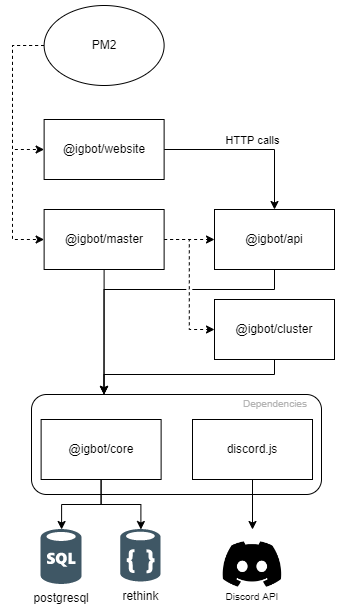
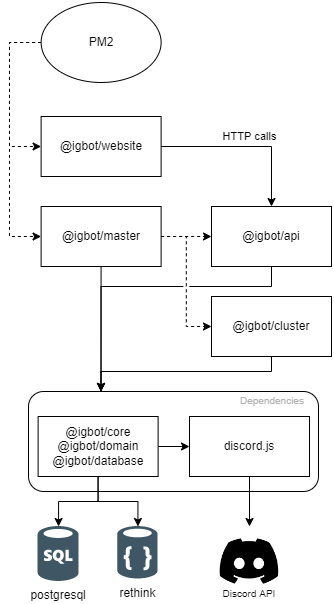
feat: add domain & database repos

diff --git a/README.md b/README.md
@@ -19,6 +19,8 @@ An non-exhaustive list of features is available on [GitHub](https://github.com/S
 | @igbot/api      | TypeScript | DiscordJS, ExpressJS |
 | @igbot/cluster  | TypeScript | DiscordJS            |
 | @igbot/core     | TypeScript | DiscordJS            |
+| @igbot/domain   | TypeScript | DiscordJS            |
+| @igbot/database | TypeScript | Prisma               |
 
 ### @igbot/website
 
@@ -42,4 +44,11 @@ The cluster process represents the bot for Discord. It handles events from Disco
 ### @igbot/core
 
 The core part contains all the logic that is shareable between all the other layers.
-It also handles the database communication.
+
+### @igbot/database
+
+The database part contains the logic for the database communication.
+
+### @igbot/domain
+
+The domain part contains the technical representations (mostly types) of the domain.
